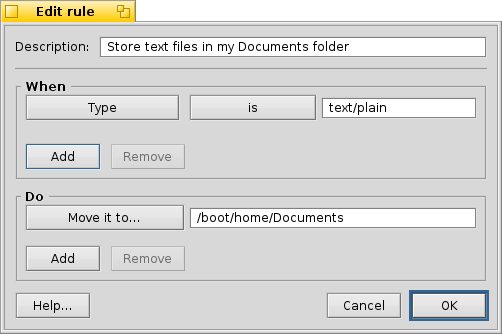
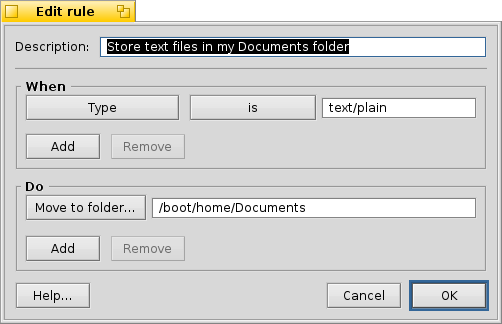
Updated documentation Added Pete Goodeve to the copyrights. Thaks for the patches and bug finding and fixing.

diff --git a/documentation/Rule-Making Reference.html b/documentation/Rule-Making Reference.html
@@ -144,15 +144,15 @@ To really get power out of it, you'll want to read the information below, though
 <a id="rule-actions" name="rule-actions">Rule Actions</a></h2>
 <p>If the conditions are met, the Filer will perform a series of actions that you choose. Actions can be chained together, such as renaming a file and then moving it to another folder.</p>
 <table>
-<tr><td class="onelinetop"><span class="key">Move it to…</span></td><td width="10"></td><td>Move a file to the folder entered in the text field.</td></tr>
-<tr><td class="onelinetop"><span class="key">Copy it to…</span></td><td></td><td>Copy a file to the folder entered in the text field.</td></tr>
-<tr><td class="onelinetop"><span class="key">Rename it to…</span></td><td></td><td>Rename the file. </td></tr>
-<tr><td class="onelinetop"><span class="key">Move it to the Trash</span></td><td></td><td>For those files which you no longer want.</td></tr>
-<tr><td class="onelinetop"><span class="key">Delete it</span></td><td></td><td>Only if you're sure of yourself and hate a cluttered Trash can.</td></tr>
-<tr><td class="onelinetop"><span class="key">Terminal command…</span></td><td></td><td>Run a command just as if you typed it into a Terminal. Substitutions (see below) are performed before the command is executed. This can make the Filer automatically do all sorts of things it couldn't do otherwise. If you move or rename the file this way, you'll need to do everything else with more Terminal command actions or a shell script.</td></tr>
-<tr><td class="onelinetop"><span class="key">Continue</span></td><td></td><td>This one should only be added last to a list of actions. There are two cases where it comes in useful:
-<ul><li>Firstly, if you've set <span class="menu">Apply only the first matching rule</span> in the rules settings, this "<i>Continue</i>" will override it, and the matching of rules will continue anyway.</li>
-<li>Secondly, if several rules are applied to a file which change the file name or location. Otherwise, if the first rule renames or moves a file, the second won't be able to find the file anymore. A "<i>Continue</i>" at the bottom of the first rule will hand over the new file name or location to the next rule.</li></ul></td></tr>
+<tr><td class="onelinetop"><span class="key">Move to folder…</span></td><td width="10"></td><td>Move a file to the folder entered in the text field.</td></tr>
+<tr><td class="onelinetop"><span class="key">Copy to folder…</span></td><td></td><td>Copy a file to the folder entered in the text field.</td></tr>
+<tr><td class="onelinetop"><span class="key">Rename  to…</span></td><td></td><td>Rename the file.</td></tr>
+<tr><td class="onelinetop"><span class="key">Open</span></td><td></td><td>Open the file with its preferred application.</td></tr>
+<tr><td class="onelinetop"><span class="key">Add to archive…</span></td><td></td><td>Adds the file to a ZIP archive.</td></tr>
+<tr><td class="onelinetop"><span class="key">Move to Trash</span></td><td></td><td>Puts the file into the Trash.</td></tr>
+<tr><td class="onelinetop"><span class="key">Delete</span></td><td></td><td>By-passes the Trash and removes the file directly.</td></tr>
+<tr><td class="onelinetop"><span class="key">Shell command…</span></td><td></td><td>Run a command just as if you typed it into a Terminal. Substitutions (see below) are performed before the command is executed. This can make the Filer automatically do all sorts of things it couldn't do otherwise. If you move or rename the file this way, you'll need to do everything else with more Terminal command actions or a shell script, because the following actions/rules can't keep track of these changes.</td></tr>
+<tr><td class="onelinetop"><span class="key">Continue</span></td><td></td><td>If you've set <span class="menu">Apply only the first matching rule</span> in the rules settings, this "<i>Continue</i>" will override it, and the matching of rules will continue anyway.</td></tr>
 </table>
 
 <h2>
@@ -198,29 +198,29 @@ To really get power out of it, you'll want to read the information below, though
 <p>Move all e-mails on the MyAccount account to its own folder in the mail folder:</p>
 <table>
 <tr><td><i>When:</i></td><td width="10"></td><td><span class="key">Email:Account</span></td><td width="10"></td><td><span class="key">is</span></td><td width="10"></td><td>MyAccount</td></tr>
-<tr><td><i>Do:</i></td><td width="10"></td><td><span class="key">Move it to…</span></td><td width="10"></td><td colspan="3">/boot/home/mail/MyAccount</td></tr>
+<tr><td><i>Do:</i></td><td width="10"></td><td><span class="key">Move to folder…</span></td><td width="10"></td><td colspan="3">/boot/home/mail/MyAccount</td></tr>
 </table>
 </li><li>
 <p>Sort JPEG photos by date into their own folder in /boot/home/Pictures:</p>
 <table>
 <tr><td><i>When:</i></td><td width="10"></td><td><span class="key">Type</span></td><td width="10"></td><td><span class="key">is</span></td><td width="10"></td><td>image/jpeg</td></tr>
-<tr><td><i>Do:</i></td><td width="10"></td><td><span class="key">Rename it to…</span></td><td width="10"></td><td colspan="3">Photo %TIME%.jpg</td></tr>
-<tr><td></td><td width="10"></td><td><span class="key">Move it to…</span></td><td width="10"></td><td colspan="3">/boot/home/Pictures/%DATE%</td></tr>
+<tr><td><i>Do:</i></td><td width="10"></td><td><span class="key">Rename to…</span></td><td width="10"></td><td colspan="3">Photo %TIME%.jpg</td></tr>
+<tr><td></td><td width="10"></td><td><span class="key">Move to folder…</span></td><td width="10"></td><td colspan="3">/boot/home/Pictures/%DATE%</td></tr>
 </table>
 </li><li>
 <p>Make sure that MP3s have searchable attributes using Axel Dörfler's excellent id3attr program, rename them to "ArtistName - SongName.mp3", and sort them in the /boot/home/music folder by the artist's name. This would make importing an MP3 collection from somewhere else very easy.</p>
 <table>
 <tr><td><i>When:</i></td><td width="10"></td><td><span class="key">Name</span></td><td width="10"></td><td class="onelinetop" width="20"><span class="key">ends with</span></td><td width="10"></td><td>.mp3</td></tr>
-<tr><td><i>Do:</i></td><td width="10"></td><td class="onelinetop"><span class="key">Terminal command…</span></td><td width="10"></td><td colspan="3">id3attr '%FULLPATH%'</td></tr>
-<tr><td></td><td width="10"></td><td><span class="key">Rename it to…</span></td><td width="10"></td><td class="onelinetop" colspan="3">%ATTR:Audio:Artist% - %ATTR:Audio:Title%.mp3</td></tr>
-<tr><td></td><td width="10"></td><td><span class="key">Move it to…</span></td><td width="10"></td><td colspan="3">/boot/home/music/%ATTR:Audio:Artist%</td></tr>
+<tr><td><i>Do:</i></td><td width="10"></td><td class="onelinetop"><span class="key">Shell command…</span></td><td width="10"></td><td colspan="3">id3attr '%FULLPATH%'</td></tr>
+<tr><td></td><td width="10"></td><td><span class="key">Rename  to…</span></td><td width="10"></td><td class="onelinetop" colspan="3">%ATTR:Audio:Artist% - %ATTR:Audio:Title%.mp3</td></tr>
+<tr><td></td><td width="10"></td><td><span class="key">Move to folder…</span></td><td width="10"></td><td colspan="3">/boot/home/music/%ATTR:Audio:Artist%</td></tr>
 </table>
 </li><li>
 <p>Extract Zip archives to the Desktop and dump them into the Trash for later disposal:</p>
 <table>
 <tr><td><i>When:</i></td><td width="10"></td><td><span class="key">Name</span></td><td width="10"></td><td class="onelinetop" width="20"><span class="key">ends with</span></td><td width="10"></td><td>.zip</td></tr>
-<tr><td><i>Do:</i></td><td width="10"></td><td class="onelinetop"><span class="key">Terminal command…</span></td><td width="10"></td><td class="onelinetop" colspan="3">unzip %FULLPATH% -d boot/home/Desktop</td></tr>
-<tr><td></td><td width="10"></td><td colspan="6"><span class="key">Move it to the Trash</span></td></tr>
+<tr><td><i>Do:</i></td><td width="10"></td><td class="onelinetop"><span class="key">Shell command…</span></td><td width="10"></td><td class="onelinetop" colspan="3">unzip %FULLPATH% -d boot/home/Desktop</td></tr>
+<tr><td></td><td width="10"></td><td colspan="6"><span class="key">Move to Trash</span></td></tr>
 </table>
 </li>
 </ul>

diff --git a/documentation/User Documentation.html b/documentation/User Documentation.html
@@ -168,7 +168,7 @@ If you drag files from another partition onto a replicated Dropzone, you'll end 
 <img src="./images/filer_ruleslist.png" alt="Filer's rules" />
 </div>
 <p>The second tab shows the list of organization rules. Every dropped file is being tested against &ndash; and if its type etc. matches, processed  by &ndash; each rule, top to bottom.</p>
-<p>You can opt to <span class="menu">Apply only the first matching rule</span> if you prefer that. Filer will then stop trying to match rules to a file after it found one. (A rule can override that by adding a <span class="menu">Continue</span> at the end of its "Do" block. See the <a href="Rule-Making%20Reference.html">Rule-Making Reference</a> for more info.)</p>
+<p>You can opt to <span class="menu">Apply only the first matching rule</span> if you prefer that. Filer will then stop trying to match rules to a file after it found one. (A rule can override that by adding a <span class="menu">Continue</span> in its "Do" block. See the <a href="Rule-Making%20Reference.html">Rule-Making Reference</a> for more info.)</p>
 <p>You can arrange the rules with the <span class="button">Move up/down</span> buttons and <span class="button">Add…</span>, <span class="button">Edit…</span> and <span class="button">Remove</span> them.<br />
 Here's the window that opens to edit a rule, which is similar to the one for adding a rule:</p>
 <div align="center">
@@ -204,14 +204,15 @@ Here's the window that opens to edit a rule, which is similar to the one for add
 <li>Initial release.</li>
 </ul>
 
-<p><b>1.1.0</b> - <i>08-05-2016</i></p>
+<p><b>1.1.0</b> - <i>13-05-2016</i></p>
 <ul>
 <li>A new GUI that integrates Filer and AutoFiler settings.</li>
+<li>Change to the action names, rule settings have to be created anew.</li>
 <li>Some usability improvements like drag&amp;drop support for AutoFiler folders and a tooltip for actions in the rule editing window.</li>
 <li>Apply changed settings, rules and monitored folders live.</li>
 <li>Add a button to manually start/stop AutoFiler.</li>
 <li>Add a dropzone and make it replicatable.</li>
-<li>Add an option to stop matching rules after the first match was found (idea and code adopted from Pete Goodeve).</li>
+<li>Add an option to stop matching rules after the first match was found (idea and code by Pete Goodeve).</li>
 <li>Add user documentation.</li>
 </ul>
 </body>

diff --git a/sources/HelpTab.cpp b/sources/HelpTab.cpp
@@ -120,7 +120,7 @@ HelpTab::HelpTab()
 	fVersion->SetExplicitMaxSize(BSize(B_SIZE_UNLIMITED, B_SIZE_UNLIMITED));
 	
 	fCopyright1 = new BStringView("copy1", "Copyright 2008, DarkWyrm");
-	fCopyright2 = new BStringView("copy2", "Copyright 2016, Humdinger");
+	fCopyright2 = new BStringView("copy2", "Copyright 2016, Humdinger, Pete Goodeve");
 	fCopyright1->SetFont(&font, B_FONT_FAMILY_AND_STYLE | B_FONT_SIZE
 		| B_FONT_FLAGS);
 	fCopyright2->SetFont(&font, B_FONT_FAMILY_AND_STYLE | B_FONT_SIZE

diff --git a/sources/DropZoneTab.cpp b/sources/DropZoneTab.cpp
@@ -171,7 +171,7 @@ DropZone::MessageReceived(BMessage* msg)
 				"renames, copies or does all sorts of other things with them "
 				"according to rules created by the user.");
 			about->AddCopyright(2008, "DarkWyrm");
-			about->AddCopyright(2016, "Humdinger");
+			about->AddCopyright(2016, "Humdinger, Pete Goodeve");
 			about->Show();
 		}
 		default:
